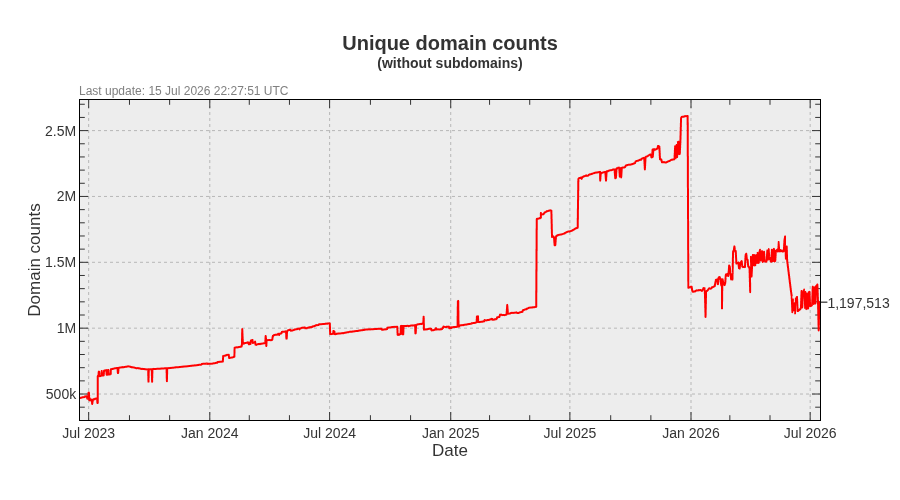
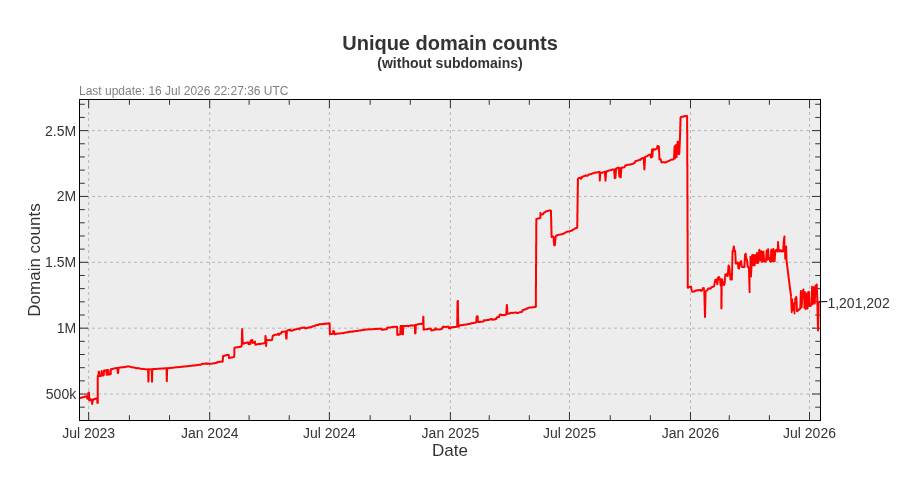
Update pages

diff --git a/README.md b/README.md
@@ -3,22 +3,22 @@ A blocklist file for blocking ads, trackers and malware domains.
 
[1 lines of base64/hex data omitted]
 
-- Unique domains: 1,872,454
-- Without subdomains: 1,197,513
-- Last update: 15 Jul 2026 22:27:51 UTC
-- Version: 2026.07.15.01
+- Unique domains: 1,877,222
+- Without subdomains: 1,201,202
+- Last update: 16 Jul 2026 22:27:36 UTC
+- Version: 2026.07.16.01
 
 
 ## Downloads:
 
 | Format             | Domain count      | Download Link |
 |------------------ | -----------------|-------------|
-| *Adblock Plus*     | 1,197,513 | [bad-hosts-abp](https://dl.cenk.app/bad-hosts/bad-hosts-abp) |
-| *Wildcard domains* | 1,197,513 | [bad-hosts-wildcard](https://dl.cenk.app/bad-hosts/bad-hosts-wildcard) |
-| *dnsmasq*          | 1,197,513 | [bad-hosts-dnsmasq](https://dl.cenk.app/bad-hosts/bad-hosts-dnsmasq) |
-| *hosts*            | 1,872,454 | [hosts](https://dl.cenk.app/bad-hosts/hosts) |
-| *hosts (ipv6)*     | 1,872,454 | [hosts-ipv6](https://dl.cenk.app/bad-hosts/hosts-ipv6) |
-| *Plain domains*    | 1,872,454 | [bad-hosts-domains](https://dl.cenk.app/bad-hosts/bad-hosts-domains) |
+| *Adblock Plus*     | 1,201,202 | [bad-hosts-abp](https://dl.cenk.app/bad-hosts/bad-hosts-abp) |
+| *Wildcard domains* | 1,201,202 | [bad-hosts-wildcard](https://dl.cenk.app/bad-hosts/bad-hosts-wildcard) |
+| *dnsmasq*          | 1,201,202 | [bad-hosts-dnsmasq](https://dl.cenk.app/bad-hosts/bad-hosts-dnsmasq) |
+| *hosts*            | 1,877,222 | [hosts](https://dl.cenk.app/bad-hosts/hosts) |
+| *hosts (ipv6)*     | 1,877,222 | [hosts-ipv6](https://dl.cenk.app/bad-hosts/hosts-ipv6) |
+| *Plain domains*    | 1,877,222 | [bad-hosts-domains](https://dl.cenk.app/bad-hosts/bad-hosts-domains) |
 
 ## Domain count history
 ### With subdomains
